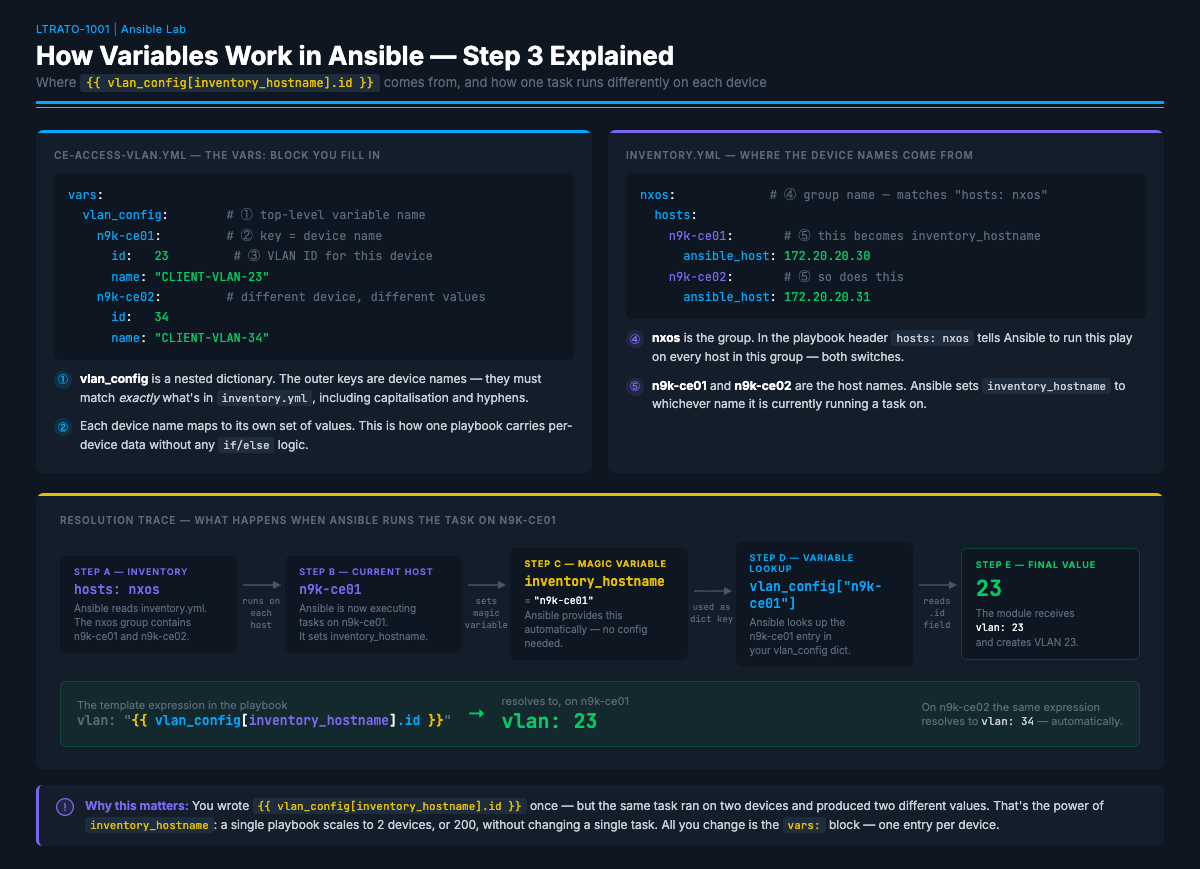
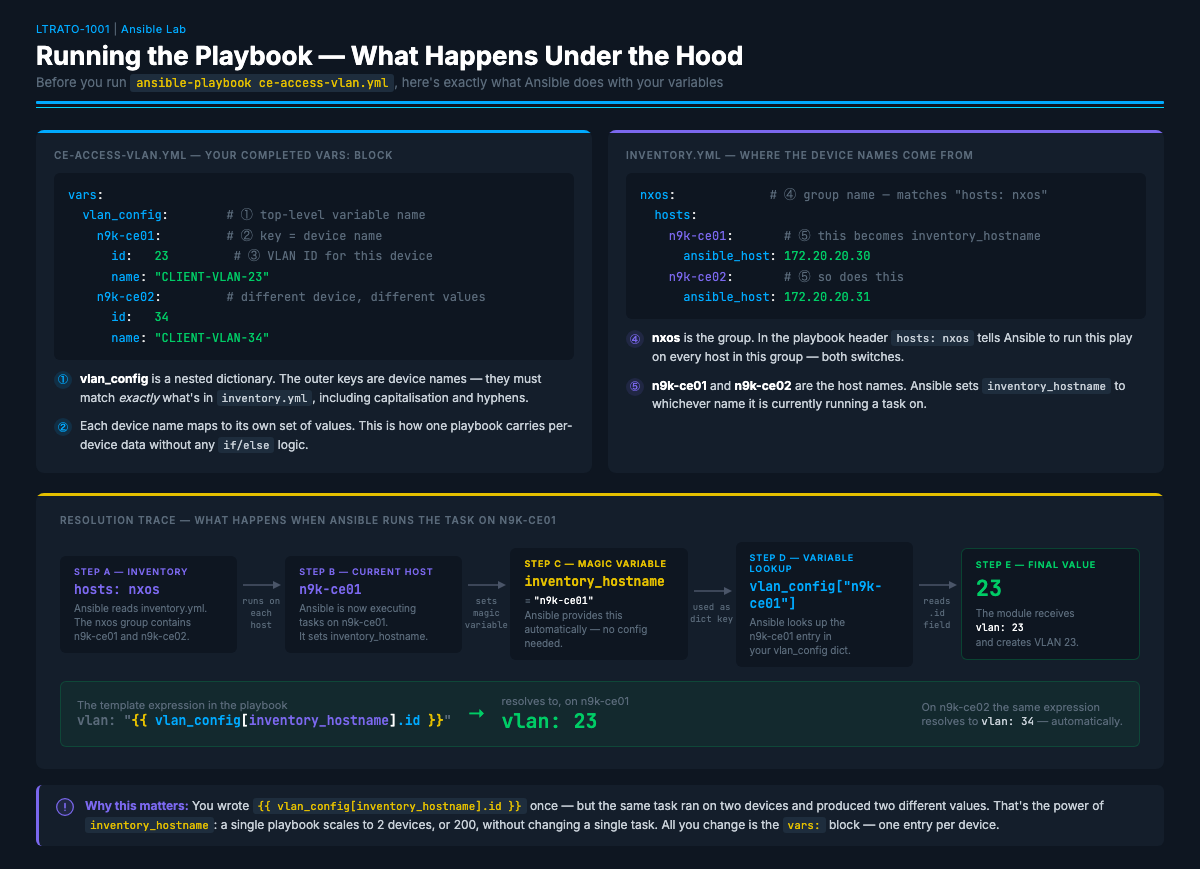
Rename variables slide to 'Running the Playbook'; move diagram from Step 3 to Step 4; update card label

Changed region(s): [[0.0308, 0.0311, 0.6167, 0.1243], [0.185, 0.1554, 0.3083, 0.1864]]

diff --git a/task1-variables-explainer.html b/task1-variables-explainer.html
@@ -165,8 +165,8 @@
 
   <!-- Header -->
   <div class="breadcrumb">LTRATO-1001 <span>|</span> Ansible Lab</div>
-  <div class="title">How Variables Work in Ansible — Step 3 Explained</div>
-  <div class="subtitle">Where <code style="font-family:'JetBrains Mono',monospace;font-size:12px;color:#e5c000;background:#1e2d3d;padding:1px 6px;border-radius:3px;">{{ vlan_config[inventory_hostname].id }}</code> comes from, and how one task runs differently on each device</div>
+  <div class="title">Running the Playbook — What Happens Under the Hood</div>
+  <div class="subtitle">Before you run <code style="font-family:'JetBrains Mono',monospace;font-size:12px;color:#e5c000;background:#1e2d3d;padding:1px 6px;border-radius:3px;">ansible-playbook ce-access-vlan.yml</code>, here's exactly what Ansible does with your variables</div>
   <div class="divider"></div>
   <div class="divider-thin"></div>
 
@@ -177,7 +177,7 @@
     <div class="card">
       <div class="card-accent" style="background:#00aaff;"></div>
       <div class="card-body">
-        <div class="card-label">ce-access-vlan.yml — the vars: block you fill in</div>
+        <div class="card-label">ce-access-vlan.yml — your completed vars: block</div>
         <pre><span class="k">vars</span><span class="w">:</span>
   <span class="k">vlan_config</span><span class="w">:</span>        <span class="c"># ① top-level variable name</span>
     <span class="k">n9k-ce01</span><span class="w">:</span>         <span class="c"># ② key = device name</span>

diff --git a/TASK1.md b/TASK1.md
@@ -157,20 +157,6 @@ Before filling in the variables, take a minute to understand what you just read.
 
 ### Step 3: Fill in the Variables
 
-Here's exactly what happens when Ansible runs the task on `n9k-ce01`:
-
-![How variables resolve in Ansible — resolution trace](images/task1-variables-explainer.png)
-
-| Step | What happens |
-|---|---|
-| **A** | `hosts: nxos` → Ansible finds `n9k-ce01` and `n9k-ce02` in inventory |
-| **B** | Ansible starts executing tasks on `n9k-ce01` |
-| **C** | Ansible sets `inventory_hostname = "n9k-ce01"` automatically |
-| **D** | `vlan_config["n9k-ce01"]` → looks up the `n9k-ce01` entry in your vars |
-| **E** | `.id` → reads the `id` field → **23** |
-
-The expression `{{ vlan_config[inventory_hostname].id }}` resolves to `23` on `n9k-ce01` and `34` on `n9k-ce02` — using the exact same playbook, with no `if/else` logic anywhere.
-
 Now scroll to the `vars:` section in the playbook. You'll see TODO placeholders:
 
 ```yaml
@@ -198,6 +184,20 @@ Save the file when done.
 ```bash
 ansible-playbook ~/ce-access-vlan.yml
 ```
+
+Before you run it, here's exactly what Ansible does with the variables you just filled in:
+
+![Running the Playbook — What Happens Under the Hood](images/task1-variables-explainer.png)
+
+| Step | What happens |
+|---|---|
+| **A** | `hosts: nxos` → Ansible finds `n9k-ce01` and `n9k-ce02` in inventory |
+| **B** | Ansible starts executing tasks on `n9k-ce01` |
+| **C** | Ansible sets `inventory_hostname = "n9k-ce01"` automatically |
+| **D** | `vlan_config["n9k-ce01"]` → looks up the `n9k-ce01` entry in your vars |
+| **E** | `.id` → reads the `id` field → **23** |
+
+The expression `{{ vlan_config[inventory_hostname].id }}` resolves to `23` on `n9k-ce01` and `34` on `n9k-ce02` — using the exact same playbook, with no `if/else` logic anywhere.
 
 Watch the output as it runs. Ansible uses color-coded status for each task:
 
